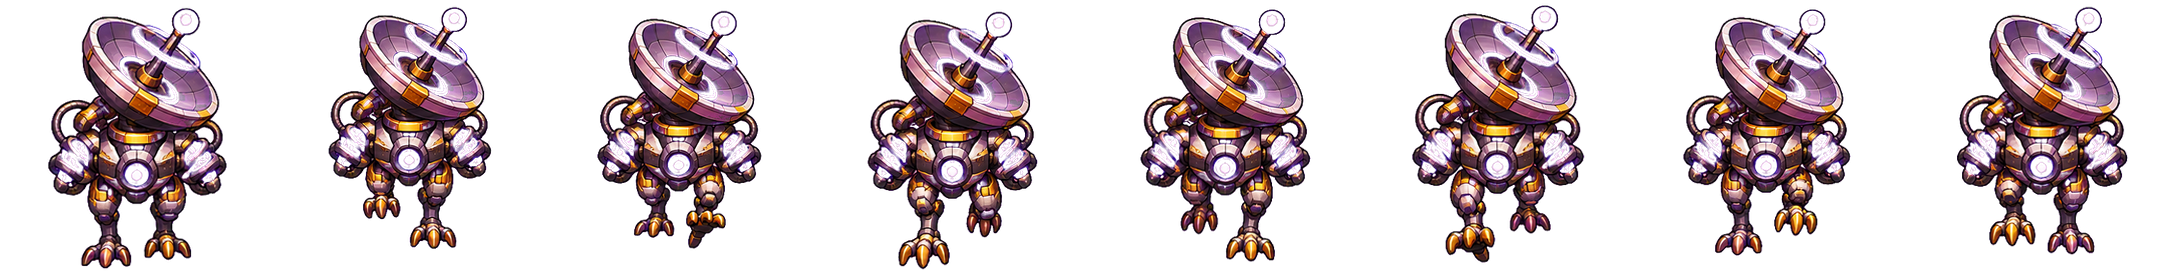
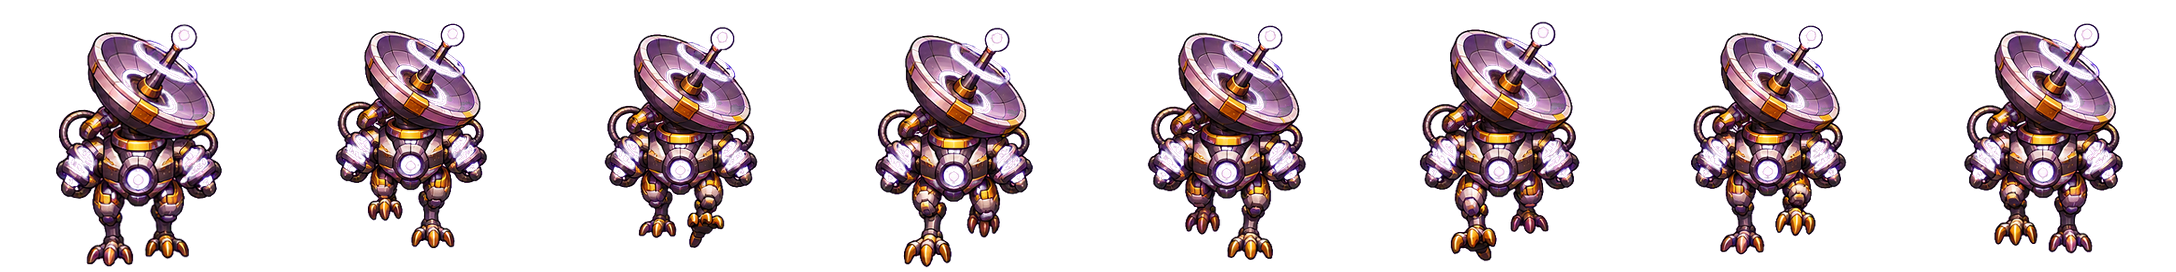
thap huong3: rap jammer ngang (raw_p6_jammer_side); hoi quy 390x844x3 XANH
Claude-Session: https://claude.ai/code/session_016VkJ26f22ubevy4EnREsEV

diff --git a/thap/js/trum.js b/thap/js/trum.js
@@ -18,7 +18,7 @@ const TRUM_MOI = {
 // trùm mới ĐÃ có ảnh ChatGPT riêng (trum_<id>_8.png…) — thêm id khi ảnh ráp xong
 // ↓ 5 dòng dưới do tools/thap-cat-p6-trum.py tự ghi theo ảnh có trong assets/ (đừng sửa tay)
 const TRUM_ANH = new Set(['hive', 'jammer']); // trum_<id>_8.png (đi trước) — bỏ ảnh mượn
-const TRUM_HUONG = new Set(['hive_side', 'hive_back']); // 'id_side' / 'id_back' — dải hướng nhìn ngang/sau
+const TRUM_HUONG = new Set(['hive_side', 'hive_back', 'jammer_side']); // 'id_side' / 'id_back' — dải hướng nhìn ngang/sau
 const TRUM_FX = new Set([]); // fx_trum_<id>.png — dải hiệu ứng chiêu 16 khung
 const TRUM_ATK = new Set(['hive']); // trum_<id>_atk_16.png — dải ĐÁNH 16 khung (thân trùm tung chiêu, nhìn về bàn) — quaianim.js phát lúc báo chiêu
 const TRUM_CHANDUNG = new Set(['hive', 'jammer', 'prism', 'twin_core', 'patcher']); // trum_<id>_portrait.png — băng giới thiệu / màn mở trận dùng chân dung

diff --git a/docs/demo-hop-tuong/tuvan/huong3/BANG.md b/docs/demo-hop-tuong/tuvan/huong3/BANG.md
@@ -17,7 +17,7 @@
 | nightmare | trùm cũ | ✅ | ⏳ ↔ | ↔ | ⏳ ↔ | ✅ khung 3 (dải 4 cũ) |
 | octopus | trùm cũ | ✅ | ⏳ ↔ | ↔ | ⏳ ↔ | ✅ khung 3 (dải 4 cũ) |
 | hive | trùm mới | ✅ | ✅ | ⇋ | ✅ | ✅ dải 16 |
-| jammer | trùm mới | ✅ | ⏳ ↔ | ↔ | ⏳ ↔ | ⏳ (q_p6 fx) |
+| jammer | trùm mới | ✅ | ✅ | ⇋ | ⏳ ↔ | ⏳ (q_p6 fx) |
 | prism | trùm mới | ⏳ mượn janus | ⏳ ↔ | ↔ | ⏳ ↔ | ⏳ (q_p6 fx) |
 | twin_core | trùm mới | ⏳ mượn joker_king | ⏳ ↔ | ↔ | ⏳ ↔ | ⏳ (q_p6 fx) |
 | patcher | trùm mới | ⏳ mượn octopus | ⏳ ↔ | ↔ | ⏳ ↔ | ⏳ (q_p6 fx) |
